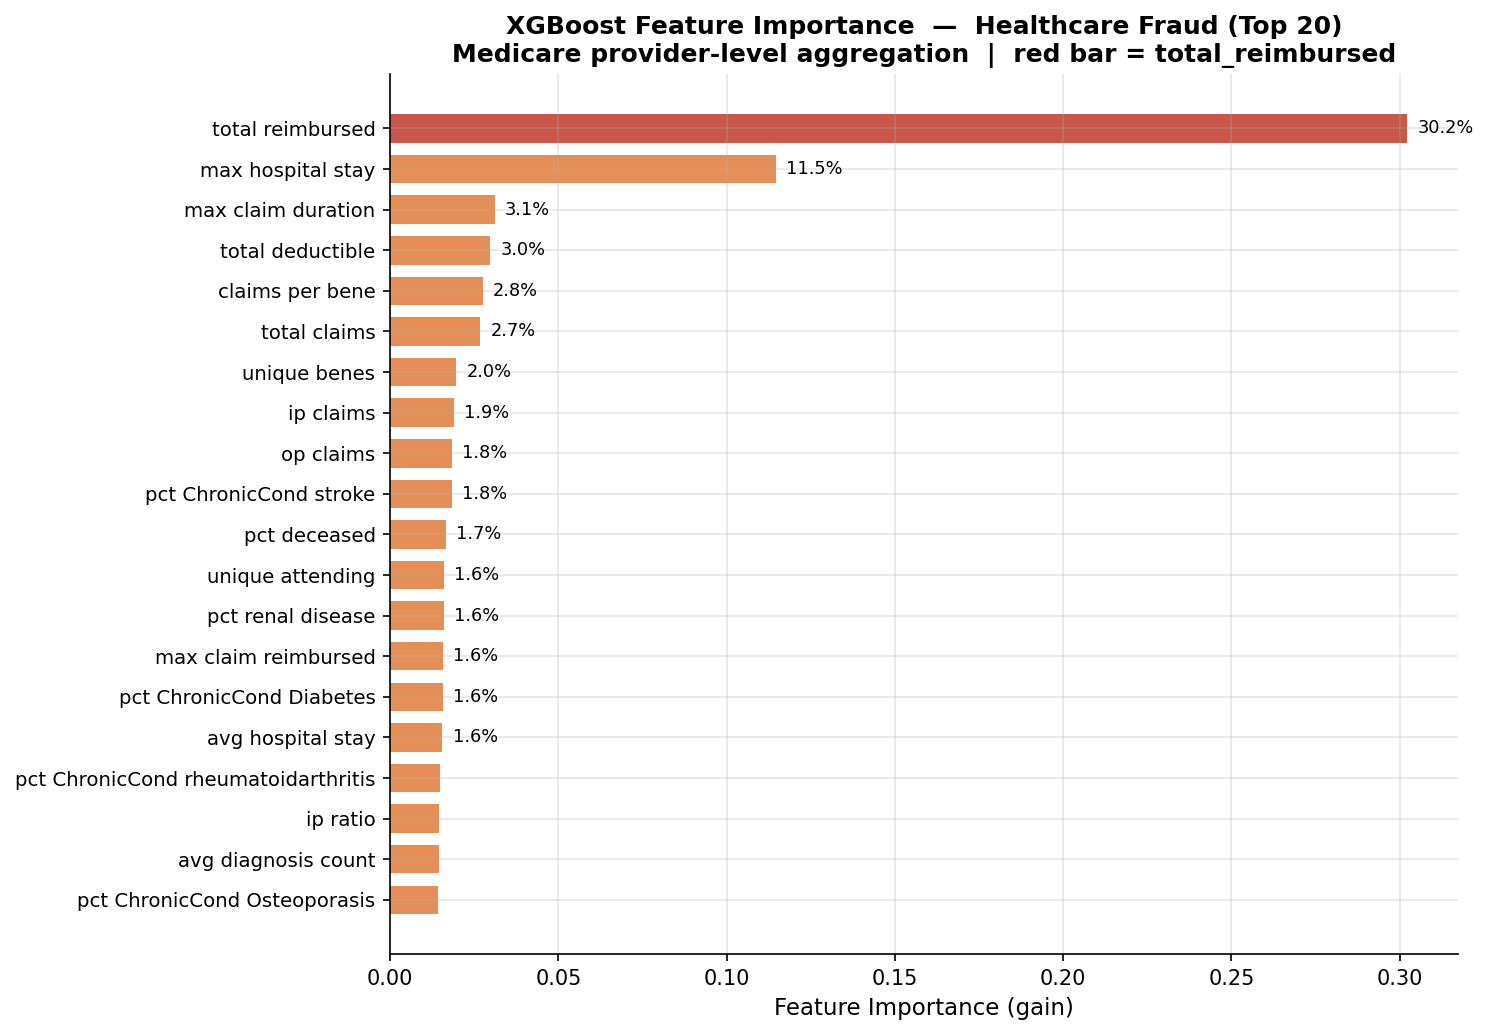
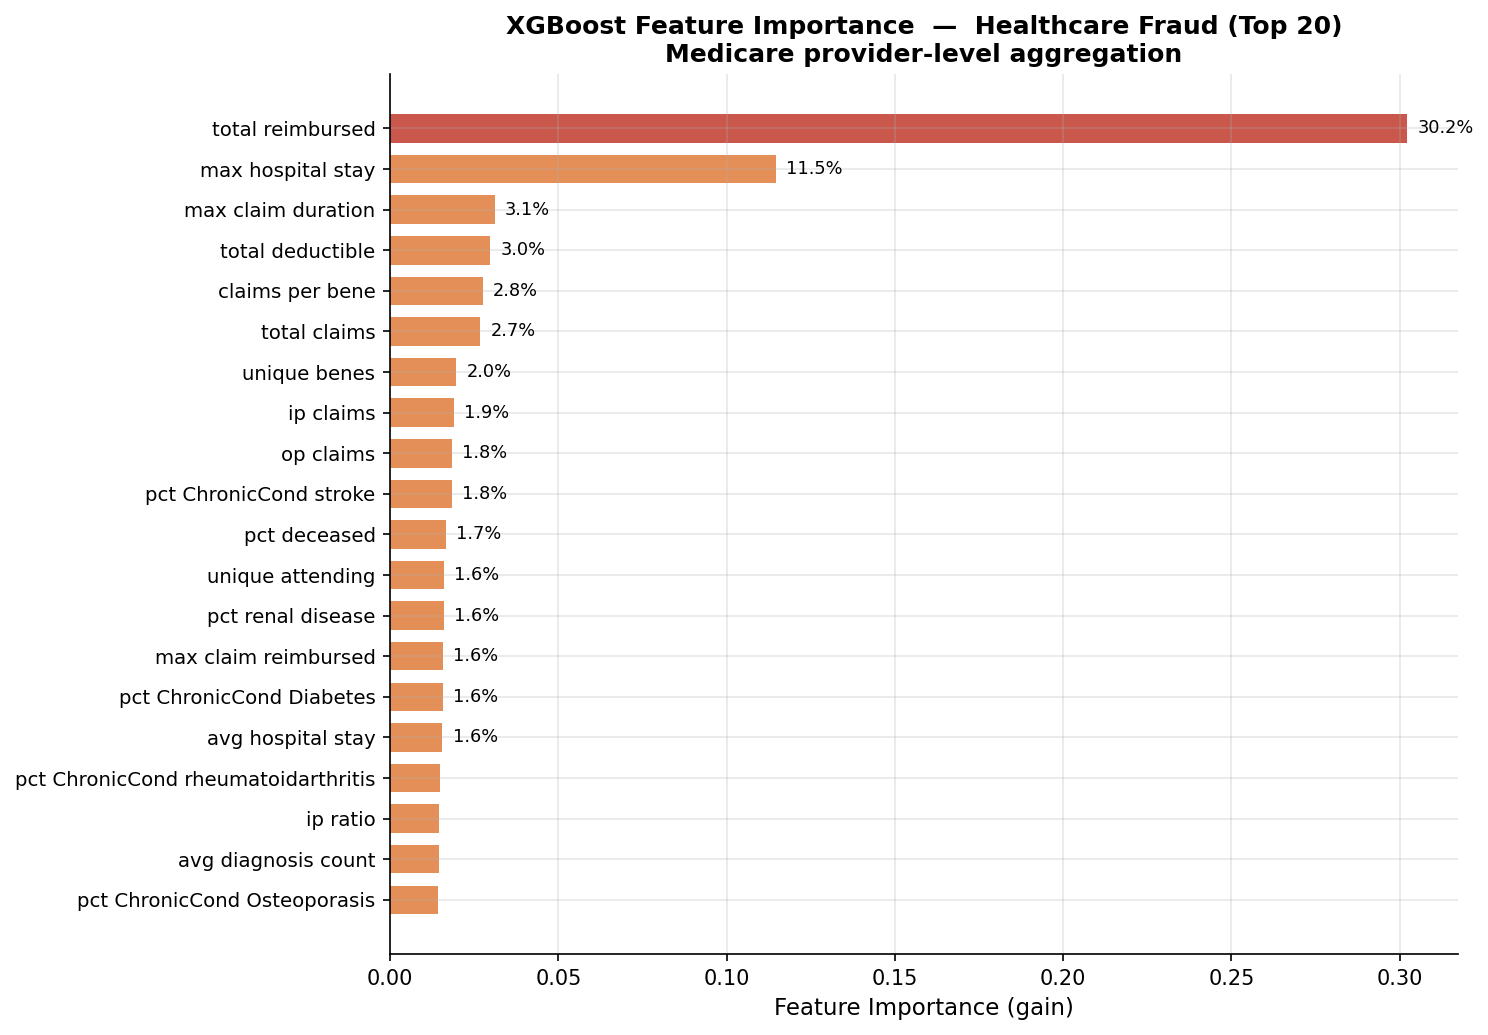
Update visualization figures and remove threshold sensitivity plot

Changed region(s): [[0.3091, 0.0309, 0.9583, 0.0618]]

diff --git a/utils/visualize.py b/utils/visualize.py
@@ -5,7 +5,6 @@ Saves 4 figures to figures/ that are NOT already covered by the UI screenshots:
   figures/roc_curves.png           — ROC curves, all models, Healthcare vs Oracle (side-by-side)
   figures/pr_curves.png            — Precision-Recall curves, Healthcare
   figures/feature_importance.png   — XGBoost feature importance, Healthcare top-20
-  figures/threshold_sensitivity.png — F2 / Recall / Precision vs threshold, XGBoost Healthcare
 
 Already covered by UI screenshots (skipped here):
   UI_images/CM.png         — Confusion matrices, all 4 Healthcare models
@@ -31,7 +30,7 @@ from sklearn.linear_model import LogisticRegression as SklearnLR
 from sklearn.ensemble import IsolationForest
 from sklearn.metrics import (
     roc_curve, auc, precision_recall_curve, average_precision_score,
-    roc_auc_score, fbeta_score, recall_score, precision_score,
+    roc_auc_score, fbeta_score,
 )
 from xgboost import XGBClassifier
 
@@ -377,7 +376,7 @@ ax.set_yticklabels(names_plot, fontsize=9.5)
 ax.set_xlabel('Feature Importance (gain)', fontsize=11)
 ax.set_title(
     'XGBoost Feature Importance  —  Healthcare Fraud (Top 20)\n'
-    'Medicare provider-level aggregation  |  red bar = total_reimbursed',
+    'Medicare provider-level aggregation',
     fontsize=12, fontweight='bold'
 )
 
@@ -389,45 +388,5 @@ for bar, (name, val) in zip(bars, reversed(top20)):
 
 plt.tight_layout()
 save('feature_importance.png')
-
-# ══════════════════════════════════════════════════════════════
-# FIGURE 4 — Threshold Sensitivity (XGBoost Healthcare)
-# ══════════════════════════════════════════════════════════════
-
-thresh_range = np.linspace(0.01, 0.99, 300)
-f2s, recs, precs = [], [], []
-
-for t in thresh_range:
-    y_pred = (xgb_hc_scores >= t).astype(int)
-    f2s.append(fbeta_score(y_hc_test, y_pred, beta=2, zero_division=0))
-    recs.append(recall_score(y_hc_test, y_pred, zero_division=0))
-    precs.append(precision_score(y_hc_test, y_pred, zero_division=0))
-
-best_t_idx = int(np.argmax(f2s))
-best_t     = thresh_range[best_t_idx]
-
-fig, ax = plt.subplots(figsize=(10, 5))
-ax.plot(thresh_range, recs,  color='#C0392B', linewidth=2.0, label='Recall')
-ax.plot(thresh_range, precs, color='#2980B9', linewidth=2.0, label='Precision')
-ax.plot(thresh_range, f2s,   color='#27AE60', linewidth=2.5, label='F2 Score')
-
-ax.axvline(x=best_t, color='#555555', linestyle='--', linewidth=1.8,
-           label=f'Optimal threshold ({best_t:.2f})  →  F2 = {f2s[best_t_idx]:.3f}')
-ax.axvline(x=0.50,   color='black',   linestyle=':',  linewidth=1.2, alpha=0.5,
-           label='Default threshold (0.50)')
-
-ax.fill_betweenx([0, 1], 0, best_t, alpha=0.04, color='#27AE60')
-
-ax.set_xlabel('Decision Threshold', fontsize=11)
-ax.set_ylabel('Score', fontsize=11)
-ax.set_title(
-    'Threshold Sensitivity  —  XGBoost Healthcare\n'
-    'Trade-off between Recall, Precision, and F2 as the decision threshold varies',
-    fontsize=12, fontweight='bold'
-)
-ax.legend(fontsize=10)
-ax.set_xlim([0, 1]);  ax.set_ylim([0, 1.05])
-plt.tight_layout()
-save('threshold_sensitivity.png')
 
 print("\nDone. All figures saved to figures/")
